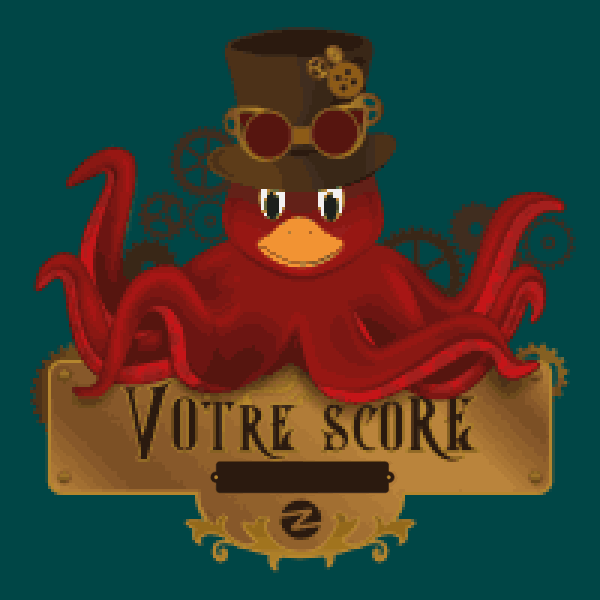
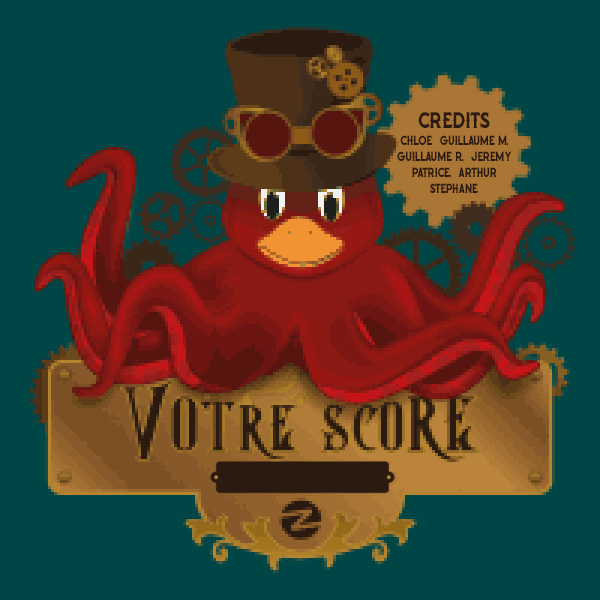
Retours après tests réels (#40)
* Sans marche arrière

* Nouvel écran de game over

* Plus de temps dans le tuto

* Temps en rouge 10s avant la fin.

* Ne pas sortir le sous marin de l'écran sur le tuto

* Nouveau Game over avec les crédit

Changed region(s): [[0.63, 0.12, 0.9, 0.39]]

diff --git a/src/scripts/scenes/startScene.ts b/src/scripts/scenes/startScene.ts
@@ -201,17 +201,17 @@ export default class StartScene extends Phaser.Scene {
   }
 
   update(time: number, delta: number): void {
-    if (this.ballaste === Ballast.Fill) {
+    if (this.ballaste === Ballast.Fill && this.submarine.y < 250) {
       this.submarine.setVelocityY(SUBMARINE_SPEED_STEP)
-    } else if (this.ballaste === Ballast.Empty) {
+    } else if (this.ballaste === Ballast.Empty && this.submarine.y > 100) {
       this.submarine.setVelocityY(-SUBMARINE_SPEED_STEP)
     } else {
       this.submarine.setVelocityY(0)
     }
     if (this.moving) {
-      if (this.currentMovement === Movement.Forward) {
+      if (this.currentMovement === Movement.Forward && this.submarine.x < 450) {
         this.submarine.setVelocityX(SUBMARINE_SPEED_STEP)
-      } else if (this.currentMovement === Movement.Backward) {
+      } else if (this.currentMovement === Movement.Backward && this.submarine.x > 150) {
         this.submarine.setVelocityX(-SUBMARINE_SPEED_STEP)
       }
       this.submarine.update(this.currentMovement);
@@ -231,7 +231,7 @@ export default class StartScene extends Phaser.Scene {
       case 1:
         this.submarine.update(Movement.Stopped)
         this.text.setText(`Vous regardez dans le periscope du sous-marin et votre collègue devra utiliser les commandes.\n\nVoyons comment les utiliser...\n`);
-        this.swithToEtape(2, 5500);
+        this.swithToEtape(2, 8000);
         break;
       case 2:
         this.submarine.update(Movement.Stopped)
@@ -244,7 +244,7 @@ export default class StartScene extends Phaser.Scene {
       case 4:
         this.submarine.update(Movement.Stopped)
         this.text.setText(`Le sous-marin est maintenant lesté, il va s'enfoncer dans les profondeurs...`);
-        this.swithToEtape(5, 3000);
+        this.swithToEtape(5, 5000);
         break;
       case 5:
         this.submarine.update(Movement.Stopped)
@@ -257,7 +257,7 @@ export default class StartScene extends Phaser.Scene {
       case 7:
         this.submarine.update(Movement.Stopped)
         this.text.setText(`Le sous-marin est rempli d'air, il va maintenant remonter vers la surface...`);
-        this.swithToEtape(8, 4000);
+        this.swithToEtape(8, 5000);
         break;
       case 8:
         this.submarine.update(Movement.Stopped)
@@ -283,7 +283,7 @@ export default class StartScene extends Phaser.Scene {
         break;
       case 14:
         this.text.setText(`Une lampe est placée sur le sous-marin, apprenez à la manipuler...`);
-        this.swithToEtape(15, 2000);
+        this.swithToEtape(15, 5000);
         break;
       case 15:
         this.text.setText(`Le contacteur trois positions de gauche permet de mettre le bras en haut, en bas ou au milieu.\nTournez le contacteur pour le mettre en position basse [0] ou haute [2].`);
@@ -292,11 +292,11 @@ export default class StartScene extends Phaser.Scene {
         this.text.setText(`Actionnez le contacteur pour le mettre en position basse [0] ou haute [2].`);
         break;
       case 17:
-        this.text.setText(`Allumez la lampe en appuyant sur le bouton blanc de gauche, intitulé [MS].\nLa led jaune s'allume aussi longtemps que la lampe.`);
+        this.text.setText(`Allumez la lampe en appuyant sur le bouton blanc de gauche, intitulé [LAMPE].\nLa led jaune s'allume aussi longtemps que la lampe.`);
         break;
       case 18:
         this.text.setText(`Si un monstre passe dans le faiseau de la lampe, il sera effrayé et s'eloignera du sous-marin.`);
-        this.swithToEtape(19, 6000);
+        this.swithToEtape(19, 8000);
         break;
       case 19:
         this.text.setText(`Pour continuer, remettez le bras en position centrale (commutateur de gauche en position [1]).`);
@@ -306,11 +306,11 @@ export default class StartScene extends Phaser.Scene {
         break;
       case 21:
         this.text.setText(`Le but du jeu est d'avancer le plus loin possible en évitant les monstres ou en les éloignant avec la lampe et de ne pas toucher les rochers.`);
-        this.swithToEtape(22, 4000);
+        this.swithToEtape(22, 5000);
         break;
       case 22:
         this.text.setText(`Vous pilotez un vieux sous-marin, il faut être délicat avec le panneau de commande ;)`)
-        this.swithToEtape(23, 4000);
+        this.swithToEtape(23, 5000);
         break;
       case 23:
         this.text.setText(`Dès que vous êtes prêt, appuyez ouvrez le capot rouge du bouton [START] et lever l'interrupteur pour commencer...`);

diff --git a/src/scripts/scenes/mainScene.ts b/src/scripts/scenes/mainScene.ts
@@ -1,7 +1,6 @@
 import Submarine, { Ballast, Movement, SUBMARINE_SPEED_STEP } from '../objects/submarine'
 import Background from '../objects/background'
 import Enemy, { EnemyType } from '../objects/enemy'
-import { BodyType } from 'matter'
 
 
 export const NB_BACKGROUND = 10
@@ -87,7 +86,7 @@ export default class MainScene extends Phaser.Scene {
           this.score -= 10
         }
         this.submarine.moving = false
-        this.currentMovement = Movement.Stopped
+        //this.currentMovement = Movement.Stopped
       }
     })
 
@@ -164,6 +163,9 @@ export default class MainScene extends Phaser.Scene {
   }
 
   update() {
+    if (this._time <= 10) {
+      this.scoreText.setColor('#ff0000')
+    }
     this.scoreText.setText(`Time: ${this._time} Score: ${this.getScoreToDisplay()}`)
 
 
